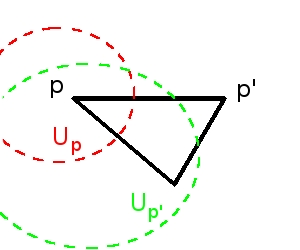
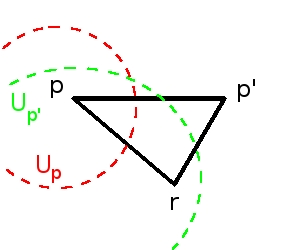
Changes to be committed: 	modified:   images/graphe_triangulaire_221.jpg 	modified:   images/graphe_triangulaire_221.xcf 	modified:   rapport.tex

diff --git a/rapport.tex b/rapport.tex
@@ -553,14 +553,14 @@ On note $A = 2 \left\lceil \frac{\displaystyle x(U_p)-y(U_p)}{\displaystyle C} \
 Donc $\zeta_p(p,q,\bs{x},\bs{y}) = 1 + \zeta_p(p',q,\bs{x'},\bs{y})$.
 \\
 
-On note $B = 2 \left\lceil \frac{\displaystyle x(U_{p'})-y(U_{p'})}{\displaystyle C} \right\rceil$
+On note $B = 2 \left\lceil \frac{\displaystyle x(U_{p'})-y(U_{p'})}{\displaystyle C} \right\rceil$.
 
 \begin{gather*}
   \begin{array}{r|c|c|c||c|}
     & 2 \left\lceil \frac{x(U_{p'})-y(U_{p'})}{C} \right\rceil
     & \eta(p,q,U_{p'})
     & \mu(p,q,U_{p'},\bs{x},\bs{y})
-    & \zeta_p(p,q,\bs{x},\bs{y})
+    & \zeta_{p'}(p,q,\bs{x},\bs{y})
     \\ \hline
     p' = q
     & \multirow{2}{*}{$= B \ge 2$}
@@ -582,7 +582,7 @@ On note $B = 2 \left\lceil \frac{\displaystyle x(U_{p'})-y(U_{p'})}{\displaystyl
     & 2 \left\lceil \frac{x'(U_{p'})-y(U_{p'})}{C} \right\rceil
     & \eta(p',q,U_{p'})
     & \mu(p',q,U_{p'},\bs{x'},\bs{y})
-    & \zeta_p(p',q,\bs{x'},\bs{y})
+    & \zeta_{p'}(p',q,\bs{x'},\bs{y})
     \\ \hline
     p' = q
     & \multirow{2}{*}{$= B \ge 2$}
@@ -615,6 +615,157 @@ Donc $\zeta_{p'}(p,q,\bs{x},\bs{y}) = 1 + \zeta_{p'}(p',q,\bs{x'},\bs{y})$.
 \includegraphics[scale=0.5]{graphe_triangulaire_221.jpg}
 \end{center}
 \end{minipage}
+
+On note $A = 2 \left\lceil \frac{\displaystyle x(U_p)-y(U_p)}{\displaystyle C} \right\rceil$.
+
+\begin{gather*}
+  \begin{array}{c|c|c|c|c||c|}
+    \multicolumn{2}{c|}{}
+    & 2 \left\lceil \frac{x(U_p)-y(U_p)}{C} \right\rceil
+    & \eta(p,q,U_p)
+    & \mu(p,q,U_p,\bs{x},\bs{y})
+    & \zeta_p(p,q,\bs{x},\bs{y})
+    \\ \hline
+    p \mbox{ équilibrée}
+    & p=q
+    & \multirow{2}{*}{$2$}
+    & 0
+    & 2
+    & 2
+    \\ \cdashline{2-2}\cdashline{4-6}
+    \mbox{après mouvement}
+    & p \ne q
+    &
+    & -1
+    & 1
+    & 1
+    \\ \hline
+    p \mbox{ en excès}
+    & p=q
+    & \multirow{2}{*}{$= A \ge 4$}
+    & 0
+    & 2
+    & A
+    \\ \cdashline{2-2}\cdashline{4-6}
+    \mbox{après mouvement}
+    & p \ne q
+    &
+    & -1
+    & 1
+    & A-1
+    \\ \hline
+  \end{array}
+\end{gather*}
+
+\begin{gather*}
+  \begin{array}{c|c|c|c|c||c|}
+    \multicolumn{2}{c|}{}
+    & 2 \left\lceil \frac{x'(U_p)-y(U_p)}{C} \right\rceil
+    & \eta(p',q,U_p)
+    & \mu(p',q,U_p,\bs{x'},\bs{y})
+    & \zeta_p(p',q,\bs{x'},\bs{y})
+    \\ \hline
+    p \mbox{ équilibrée}
+    & p=q
+    & \multirow{2}{*}{$0$}
+    & 1
+    & 1
+    & 1
+    \\ \cdashline{2-2}\cdashline{4-6}
+    \mbox{après mouvement}
+    & p \ne q
+    &
+    & 0
+    & 0
+    & 0
+    \\ \hline
+    p \mbox{ en excès}
+    & p=q
+    & \multirow{2}{*}{$= A-2 \ge 2$}
+    & 1
+    & 1
+    & A-1
+    \\ \cdashline{2-2}\cdashline{4-6}
+    \mbox{après mouvement}
+    & p \ne q
+    &
+    & 0
+    & 2
+    & A-2
+    \\ \hline
+  \end{array}
+\end{gather*}
+Donc $\zeta_p(p,q,\bs{x},\bs{y}) = 1 + \zeta_p(p',q,\bs{x'},\bs{y})$.
+\\
+
+On note $B = 2 \left\lceil \frac{\displaystyle x(U_{p'})-y(U_{p'})}{\displaystyle C} \right\rceil$.
+
+\begin{gather*}
+  \begin{array}{r|c|c|c||c|}
+    & 2 \left\lceil \frac{x(U_{p'})-y(U_{p'})}{C} \right\rceil
+    & \eta(p,q,U_{p'})
+    & \mu(p,q,U_{p'},\bs{x},\bs{y})
+    & \zeta_{p'}(p,q,\bs{x},\bs{y})
+    \\ \hline
+    p' = q
+    & \multirow{2}{*}{$= B \ge 2$}
+    & 1
+    & 1
+    & B + 1
+    \\ \cline{1-1}\cline{3-5}
+    p' \ne q
+    &
+    & 0
+    & 2
+    & B
+    \\ \hline
+  \end{array}
+\end{gather*}
+
+\underline{$1^{er}$ sous-cas : $p'$ reste en défaut après le mouvement}
+\begin{gather*}
+  \begin{array}{r|c|c|c||c|}
+    & 2 \left\lceil \frac{x'(U_{p'})-y(U_{p'})}{C} \right\rceil
+    & \eta(p',q,U_{p'})
+    & \mu(p',q,U_{p'},\bs{x'},\bs{y})
+    & \zeta_{p'}(p',q,\bs{x'},\bs{y})
+    \\ \hline
+    p' = q
+    & \multirow{2}{*}{$= B \ge 2$}
+    & 0
+    & 2
+    & B
+    \\ \cline{1-1}\cline{3-5}
+    p' \ne q
+    &
+    & -1
+    & 1
+    & B - 1
+    \\ \hline
+  \end{array}
+\end{gather*}
+
+\underline{$2^{ème}$ sous-cas : $p'$ est équlibrée ou en excès après le mouvement}\\
+On se place après le mouvement de $p$ à $p'$.
+\begin{itemize}
+\item \underline{Si $p'=q$}, alors comme $p$ est équilibrée ou en excès, on en déduit que $r$ est équilibrée ou en défaut.\\
+Or $r$ n'est pas en défaut (sinon, on serait aller sur $r$ car $p'=q$). Donc $r$ est équilibrée.\\
+On en déduit que $p$ et $p'$ sont également équilibrées.\\
+D'où : $\zeta_{p'}(p,q,\bs{x},\bs{y}) = 1$ et $\zeta_{p'}(p',q,\bs{x'},\bs{y}) = 0$.
+
+\item \underline{Si $p' \ne q$}
+\begin{equation}\notag
+\zeta_{p'}(p,q,\bs{x},\bs{y})
+= \mbox{max} \left( 2 \left\lceil \frac{x(U_{p'})-y(U_{p'})}{C} \right\rceil + 0, 2\right)
+= 2 \left\lceil \frac{ x(U_{p'})-y(U_{p'})}{C} \right\rceil
+\end{equation}
+\begin{equation}\notag
+\zeta_{p'}(p',q,\bs{x'},\bs{y})
+= \mbox{max} \left( 2 \left\lceil \frac{x'(U_{p'})-y(U_{p'})}{C} \right\rceil + 1, 1\right)
+= 2 \left\lceil \frac{x(U_{p'})-y(U_{p'})}{C} \right\rceil - 1
+\end{equation}
+\end{itemize}
+Dans les deux cas, $\zeta_{p'}(p,q,\bs{x},\bs{y}) = 1 + \zeta_{p'}(p',q,\bs{x'},\bs{y})$.
 
 \chapter{Capacité du camion infinie}
 
